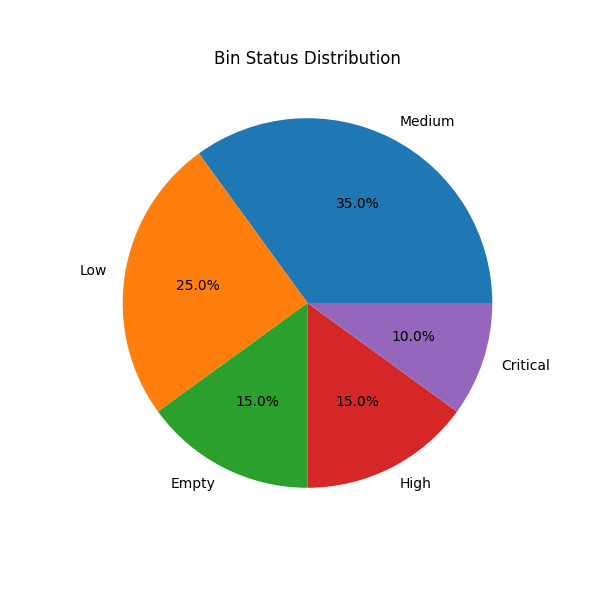
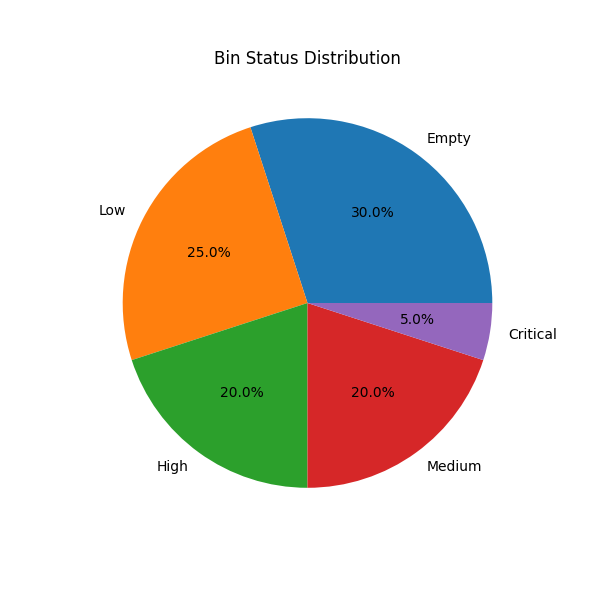
Updated project outputs and removed duplicate report files

diff --git a/main.py b/main.py
@@ -1,22 +1,17 @@
 import pandas as pd
 
-from python_simulation.data_generator import (
-    generate_sensor_data
-)
+from python_simulation.data_generator import generate_sensor_data
 
 from python_simulation.fill_level_calculator import (
     calculate_fill_percentage,
     get_bin_status
 )
 
-from python_simulation.alert_system import (
-    check_alert
-)
+from python_simulation.alert_system import check_alert
 
 from python_simulation.report_generator import (
     generate_charts,
-    generate_dashboard_image,
-    generate_report_image
+    generate_dashboard_image
 )
 
 csv_file = "data/waste_data.csv"
@@ -27,27 +22,19 @@ for i in range(20):
 
     timestamp, distance = generate_sensor_data()
 
-    fill_percentage = calculate_fill_percentage(
-        distance
-    )
+    fill_percentage = calculate_fill_percentage(distance)
 
-    status = get_bin_status(
-        fill_percentage
-    )
+    status = get_bin_status(fill_percentage)
 
-    alert = check_alert(
-        fill_percentage
-    )
+    alert = check_alert(fill_percentage)
 
-    records.append(
-        [
-            timestamp,
-            distance,
-            fill_percentage,
-            status,
-            alert
-        ]
-    )
+    records.append([
+        timestamp,
+        distance,
+        fill_percentage,
+        status,
+        alert
+    ])
 
     print(
         timestamp,
@@ -68,22 +55,18 @@ df = pd.DataFrame(
     ]
 )
 
-df.to_csv(
-    csv_file,
-    index=False
-)
+df.to_csv(csv_file, index=False)
 
-generate_charts(
-    csv_file
-)
+generate_charts(csv_file)
 
-generate_dashboard_image(
-    csv_file
-)
+generate_dashboard_image(csv_file)
 
-generate_report_image(
-    csv_file
-)
+print("\nProject Execution Completed Successfully!")
 
-print("\nImages Generated Successfully!")
-print("Check images folder.")
+print("\nGenerated Files:")
+
+print("data/waste_data.csv")
+print("images/dashboard_output.png")
+print("images/fill_level_trend_chart.png")
+print("images/bin_status_distribution.png")
+print("images/alert_status_chart.png")

diff --git a/python_simulation/report_generator.py b/python_simulation/report_generator.py
@@ -8,27 +8,20 @@ def generate_charts(csv_file):
 
     # Fill Level Trend Chart
     plt.figure(figsize=(8, 5))
-    plt.plot(
-        df["Fill_Percentage"],
-        marker="o"
-    )
+    plt.plot(df["Fill_Percentage"], marker="o")
 
     plt.title("Fill Level Trend")
     plt.xlabel("Reading Number")
     plt.ylabel("Fill Percentage (%)")
     plt.grid(True)
 
-    plt.savefig(
-        "images/fill_level_trend_chart.png"
-    )
-
+    plt.savefig("images/fill_level_trend_chart.png")
     plt.close()
 
-    # Bin Status Distribution Chart
+    # Bin Status Distribution
     status_counts = df["Status"].value_counts()
 
     plt.figure(figsize=(6, 6))
-
     plt.pie(
         status_counts,
         labels=status_counts.index,
@@ -37,10 +30,22 @@ def generate_charts(csv_file):
 
     plt.title("Bin Status Distribution")
 
-    plt.savefig(
-        "images/bin_status_distribution.png"
+    plt.savefig("images/bin_status_distribution.png")
+    plt.close()
+
+    # Alert Status Distribution
+    alert_counts = df["Alert"].value_counts()
+
+    plt.figure(figsize=(6, 6))
+    plt.pie(
+        alert_counts,
+        labels=alert_counts.index,
+        autopct="%1.1f%%"
     )
 
+    plt.title("Alert Status Distribution")
+
+    plt.savefig("images/alert_status_chart.png")
     plt.close()
 
 
@@ -50,9 +55,7 @@ def generate_dashboard_image(csv_file):
 
     latest = df.iloc[-1]
 
-    fig, ax = plt.subplots(
-        figsize=(8, 4)
-    )
+    fig, ax = plt.subplots(figsize=(8, 4))
 
     ax.axis("off")
 
@@ -71,34 +74,5 @@ def generate_dashboard_image(csv_file):
         fontsize=12
     )
 
-    plt.savefig(
-        "images/dashboard_output.png"
-    )
-
-    plt.close()
-
-
-def generate_report_image(csv_file):
-
-    df = pd.read_csv(csv_file)
-
-    fig, ax = plt.subplots(
-        figsize=(10, 4)
-    )
-
-    ax.axis("off")
-
-    table = ax.table(
-        cellText=df.head(10).values,
-        colLabels=df.columns,
-        loc="center"
-    )
-
-    table.auto_set_font_size(False)
-    table.set_fontsize(8)
-
-    plt.savefig(
-        "images/waste_monitoring_report.png"
-    )
-
+    plt.savefig("images/dashboard_output.png")
     plt.close()